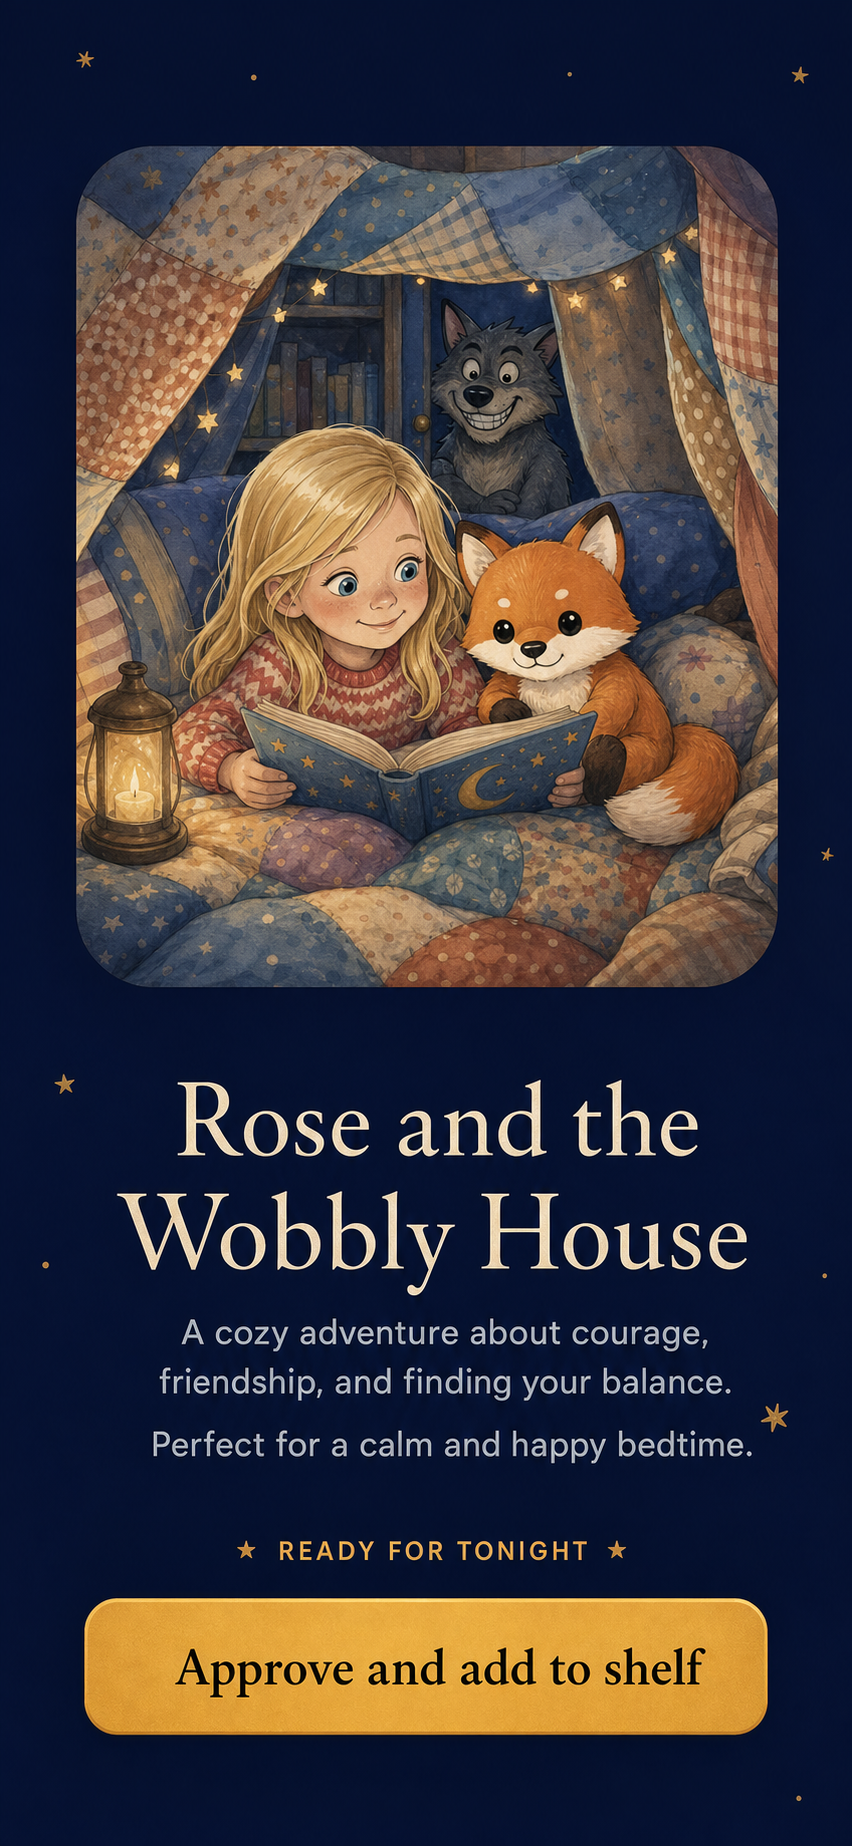
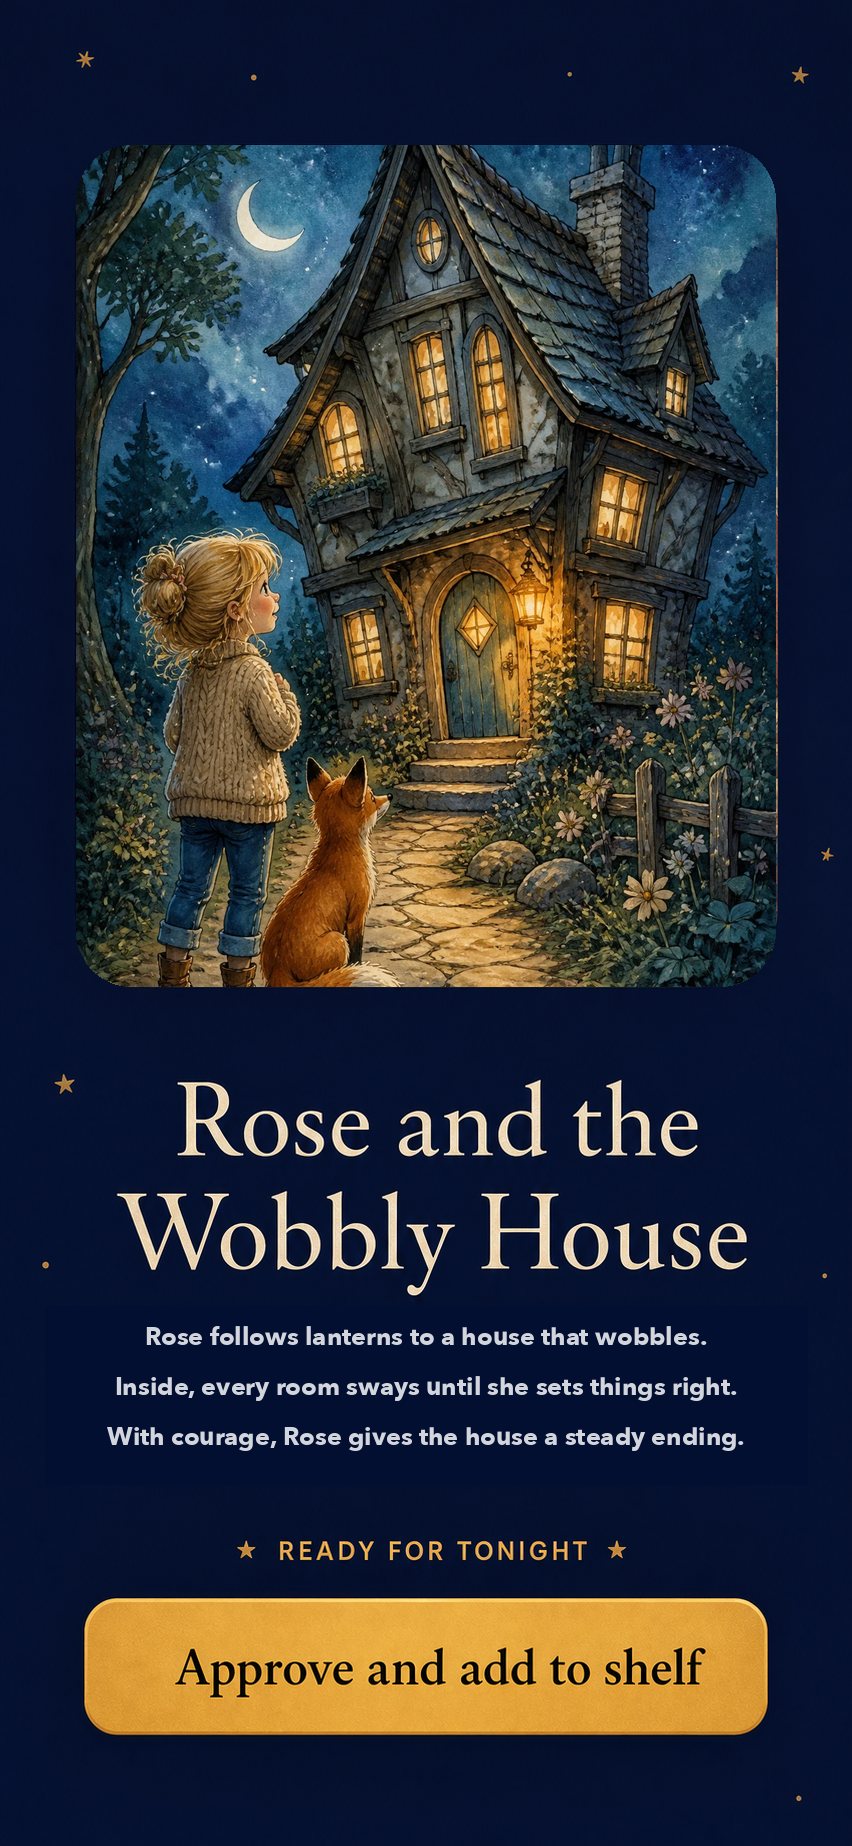
Clarify Rose story review

diff --git a/index.html b/index.html
@@ -39,7 +39,7 @@
   <header class="hero" id="top"><img class="hero-art" src="public/illustrations/family-bedtime.webp" alt="Illustrated parent and child sharing a story before bedtime"><div class="hero-copy"><p class="eyebrow">For after the last page is turned</p><h1>A bedtime story<br>starring <em>them.</em></h1><p>You still read real books together at bedtime, exactly as you do now.<br>Yonder is what plays after lights-out, in the same slot as an audiobook or Toniebox once you've left the room.</p><div class="hero-actions"><a class="button" href="#preview">Request preview access</a><div class="store-badges" aria-label="Coming soon for iOS and Android"><span class="store-badge"><svg viewBox="0 0 24 24" aria-hidden="true"><path d="M16.6 12.6c0-2.7 2.2-4 2.3-4.1-1.2-1.8-3.1-2-3.8-2.1-1.6-.2-3.1 1-3.9 1s-2-1-3.4-1c-1.8 0-3.4 1-4.3 2.5-1.8 3.1-.5 7.7 1.3 10.3.9 1.3 1.9 2.7 3.3 2.6 1.3-.1 1.8-.8 3.4-.8 1.6 0 2 .8 3.4.8 1.4 0 2.3-1.3 3.2-2.6 1-1.5 1.4-2.9 1.4-2.9-.1 0-2.8-1.1-2.9-4.7zM14 4.9c.7-.9 1.2-2.1 1-3.4-1 .1-2.3.7-3 1.6-.6.7-1.2 1.9-1 3.1 1.1.1 2.2-.5 3-1.3z"/></svg><span>Coming soon<b>App Store</b></span></span><span class="store-badge"><svg viewBox="0 0 24 24" aria-hidden="true"><path d="M3 2.8 13.6 12 3 21.2V2.8Zm11.8 10.3 2.6-2.3 2.8 1.6c.8.5.8 1.4 0 1.9l-2.8 1.6-2.6-2.3ZM4.5 22l10-8.7 2.5 2.2L4.5 22Zm12.5-13.4L4.5 2 14.5 10.7 17 8.6Z"/></svg><span>Coming soon<b>Google Play</b></span></span></div></div></div></header>
   <main id="main">
     <section class="proof reveal"><div class="split"><div class="copy"><p class="eyebrow">Their name. Their world.</p><h2 class="section-title">Tonight, <em>they’re</em> the hero.</h2><p>Rose crosses Silver Lake. Jack faces a giant. Olivia launches a tiny rocket. Pierre scores the winning goal. Riya joins a unicorn parade. Thomas races a dinosaur. Every adventure begins with them.</p></div><div class="story-stack" aria-label="Six example personalised Yonder story books"><article class="story-book"><h3><b>Rose and Bunny’s</b>Silver Lake</h3></article><article class="story-book"><h3><b>Jack and the</b>Sleepy Giant</h3></article><article class="story-book"><h3><b>Olivia and the</b>Tiny Rocket</h3></article><article class="story-book"><h3><b>Pierre wins the</b>World Cup</h3></article><article class="story-book"><h3><b>Riya and the</b>Unicorn Parade</h3></article><article class="story-book"><h3><b>Thomas and the</b>Dinosaur Race</h3></article></div></div></section>
-    <section class="trust reveal"><div class="trust-grid"><div><p class="eyebrow">Made for parents</p><h2 class="section-title">You choose what they hear.</h2><p>You approve every story before they hear it. No surprises, no autoplay, no ads.</p><p>Story figures offer a fixed catalogue, however many you buy. Spotify and YouTube Kids autoplay into whatever comes next, as well as playing ads. Yonder adds a new story only when you choose it, then stops when it ends.</p></div></div><div class="app-flow" data-active="0" aria-label="Choose the cast, approve the story, then add it to their shelf"><figure class="flow-step"><img src="public/app-flow/choose-story.png" alt="Yonder phone screen for choosing Rose, Shosh, a gentle villain and a magical world" loading="lazy"><figcaption>a. Create a story</figcaption></figure><figure class="flow-step"><img src="public/app-flow/review-story.png" alt="Yonder phone screen with Approve and add to shelf button" loading="lazy"><figcaption>b. Review and approve</figcaption></figure><figure class="flow-step"><img src="public/app-flow/rose-library.png" alt="Yonder phone screen showing the approved stories on Rose's shelf" loading="lazy"><figcaption>c. Choose from their shelf</figcaption></figure></div></section>
+    <section class="trust reveal"><div class="trust-grid"><div><p class="eyebrow">Made for parents</p><h2 class="section-title">You choose what they hear.</h2><p>You approve every story before they hear it. No surprises, no autoplay, no ads.</p><p>Story figures offer a fixed catalogue, however many you buy. Spotify and YouTube Kids autoplay into whatever comes next, as well as playing ads. Yonder adds a new story only when you choose it, then stops when it ends.</p></div></div><div class="app-flow" data-active="0" aria-label="Choose the cast, approve the story, then add it to their shelf"><figure class="flow-step"><img src="public/app-flow/choose-story.png" alt="Yonder phone screen for choosing Rose, Shosh, a gentle villain and a magical world" loading="lazy"><figcaption>a. Create a story</figcaption></figure><figure class="flow-step"><img src="public/app-flow/review-story.png" alt="Yonder review screen for Rose and the Wobbly House, showing a three-line plot summary and approval button" loading="lazy"><figcaption>b. Review and approve</figcaption></figure><figure class="flow-step"><img src="public/app-flow/rose-library.png" alt="Yonder phone screen showing the approved stories on Rose's shelf" loading="lazy"><figcaption>c. Choose from their shelf</figcaption></figure></div></section>
     <section class="make"><div class="make-head reveal"><p class="eyebrow">Made together, before bedtime</p><h2 class="section-title">Make it theirs.</h2><p>Choose a few ingredients that make the story feel unmistakably theirs. It takes a moment, not a questionnaire. Then it comes back to you first, to read properly or just skim the summary, and nothing reaches their shelf until you say yes.</p></div><div class="choice-scene"><article class="choice"><div class="choice-copy"><span class="choice-no">01</span><h3>Pick companions</h3><p>Bunny or bear, Mummy or Daddy. Their adventure begins with someone they love.</p></div></article><article class="choice"><div class="choice-copy"><span class="choice-no">02</span><h3>Add a little mischief</h3><p>A tiny twist to make the adventure feel exciting — always gentle enough for bedtime.</p></div></article><article class="choice"><div class="choice-copy"><span class="choice-no">03</span><h3>Choose a world</h3><p>A moon garden, pirate ship or train to the stars. Tonight’s story goes somewhere new.</p></div></article></div></section>
     <section class="home-languages reveal" aria-labelledby="language-heading"><div class="language-layout"><div class="language-copy"><p class="eyebrow">Made for home languages</p><h2 class="section-title" id="language-heading">Their adventure, in the language they know <em>best.</em></h2><p>Every new story can be created in the language they hear at home, with narration and vocabulary made for them.</p><div class="language-list" aria-label="Available story languages"><button type="button" data-language="English" aria-pressed="false">English</button><button type="button" data-language="Français" aria-pressed="true">Français</button><button type="button" data-language="Deutsch" aria-pressed="false">Deutsch</button><button type="button" data-language="Español" aria-pressed="false">Español</button><button type="button" data-language="Italiano" aria-pressed="false">Italiano</button><button type="button" data-language="Nederlands" aria-pressed="false">Nederlands</button></div></div><aside class="language-story" aria-label="Example French story cover" aria-roledescription="rotating story sample"><div class="language-cover-stage"><img class="language-cover" src="public/covers/cover-fr-lanterne.webp" alt="Rose et la Lanterne Perdue story cover"></div><div class="language-quote"><p>Rose suivit la lueur de la lanterne, tout droit dans la forêt endormie…</p></div></aside></div></section>
     <section class="listen reveal"><div class="split"><div class="scene"><img src="public/illustrations/intro-frame-3.webp" alt="Illustrated child asleep beside a glowing bedside lamp while a phone rests face-down"><div class="audio-status"><i></i>Screen stays off</div></div><div class="copy"><p class="eyebrow">Audio that follows the routine</p><h2 class="section-title">Press play. Leave the phone behind.</h2><p>Choose their stories before bedtime, then keep your real-book routine just as it is.</p><p class="queue-line">After lights-out, it keeps playing from their approved shelf: one story, five favourites, or 45 minutes. Then it stops.</p><ul class="listen-list"><li><svg class="device-icon" viewBox="0 0 24 24" aria-hidden="true"><rect x="7" y="2.5" width="10" height="19" rx="2"/><path d="M10 18.5h4"/></svg>Phone with the screen off</li><li><svg class="device-icon" viewBox="0 0 24 24" aria-hidden="true"><rect x="5" y="8" width="14" height="11" rx="3"/> <path d="M9 13.5h.01M12 13.5h.01M15 13.5h.01M8 5.5c2.2-1.7 5.8-1.7 8 0"/></svg>Bluetooth speaker</li><li><svg class="device-icon" viewBox="0 0 24 24" aria-hidden="true"><path d="M9 18.5h6M8 15.5h8M6.5 12.5h11M9 4.5h6l1.5 8H7.5z"/></svg>Alexa and Google Home</li><li><svg class="device-icon" viewBox="0 0 24 24" aria-hidden="true"><rect x="4" y="7" width="16" height="12" rx="3"/><path d="M8 7V5h8v2M9.5 13h5M12 10.5v5"/></svg>Yoto Player</li></ul></div></div></section>
